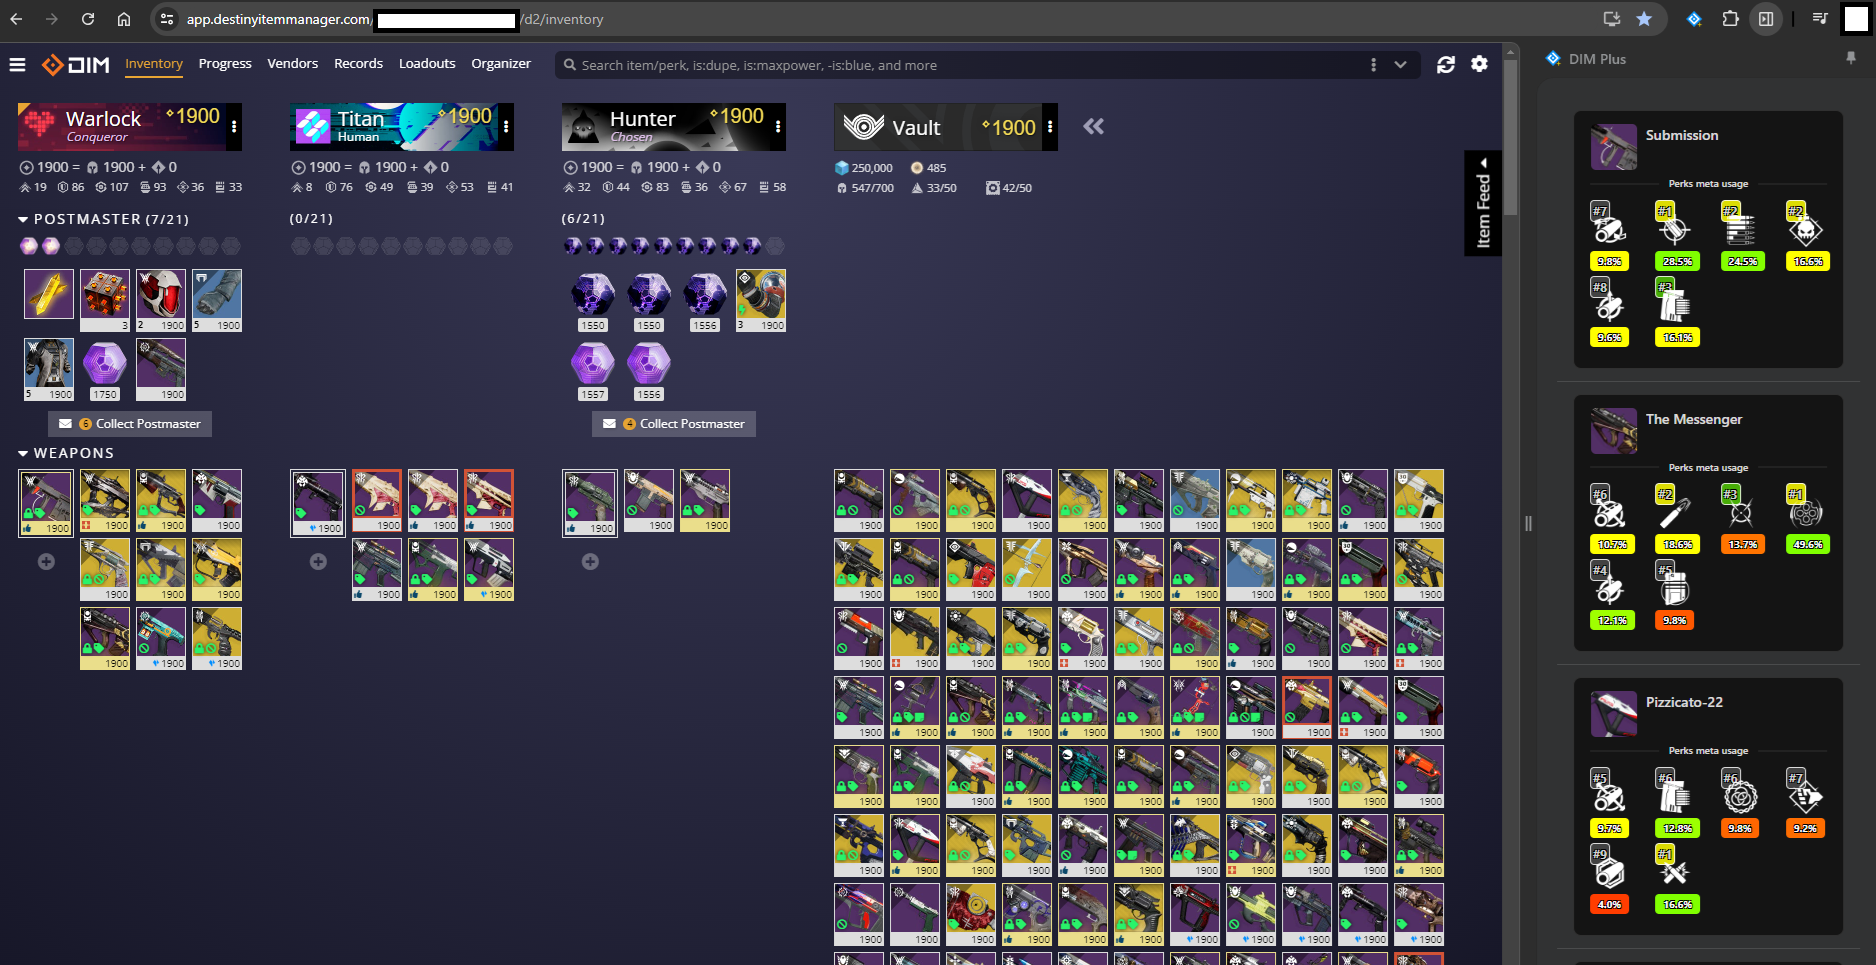
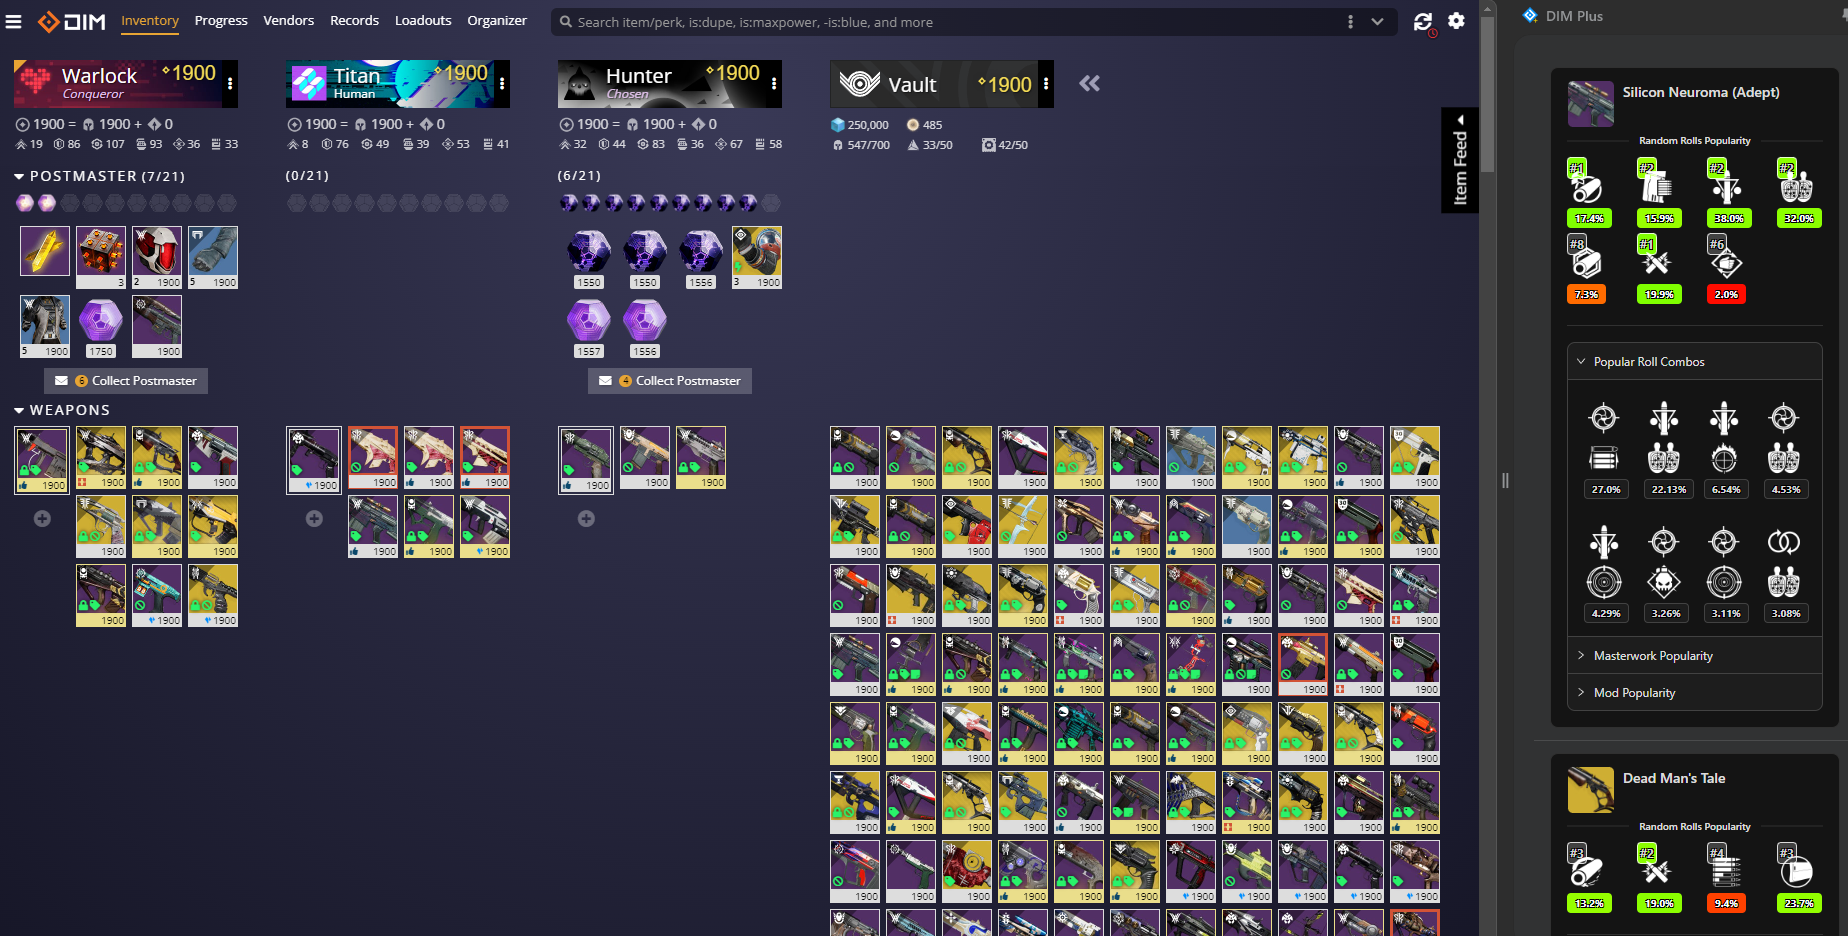
chore(readme): updated readme

diff --git a/README.md b/README.md
@@ -21,6 +21,8 @@ Additionally , to open the sidepanel you need to click on the extension icon, do
 
 ![Alt text](./readme_imgs/sidepanel%20look.png)
 
+![Alt text](./readme_imgs/sidepanel%20fullinfo.png)
+
 ### Building and Testing
 
 This extension is made with React 18 and Antd components, it also used the [Chrome Extension boilerplate by Jonghakseo](https://github.com/Jonghakseo/chrome-extension-boilerplate-react-vite) as starting point. Refer to the README.Development.md document for more information.
